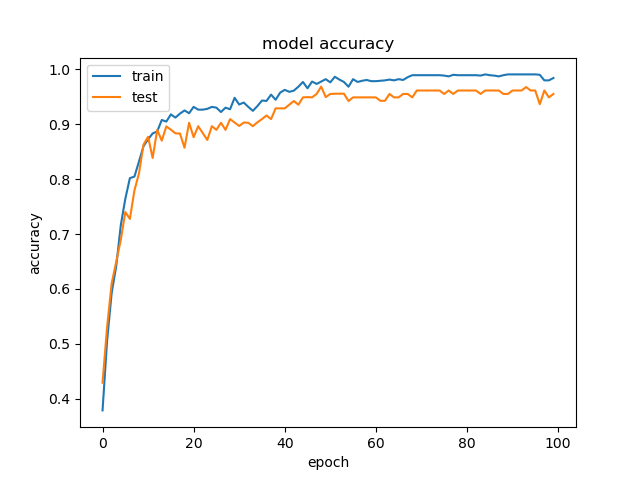
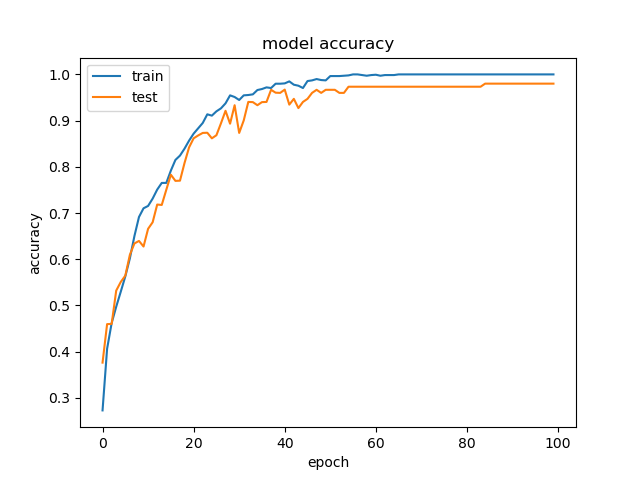
98% train accuracy batch size (b = 64), and epochs (e = 100)

diff --git a/code/cnn/Main.py b/code/cnn/Main.py
@@ -17,7 +17,7 @@ from .cnn import get_model
 from .plot import show_confusion_matrix, plot_loss, plot_accuracy
 
 # Hyperparameters
-batch_size = 32
+batch_size = 64
 epochs = 100
 k = 10
 
